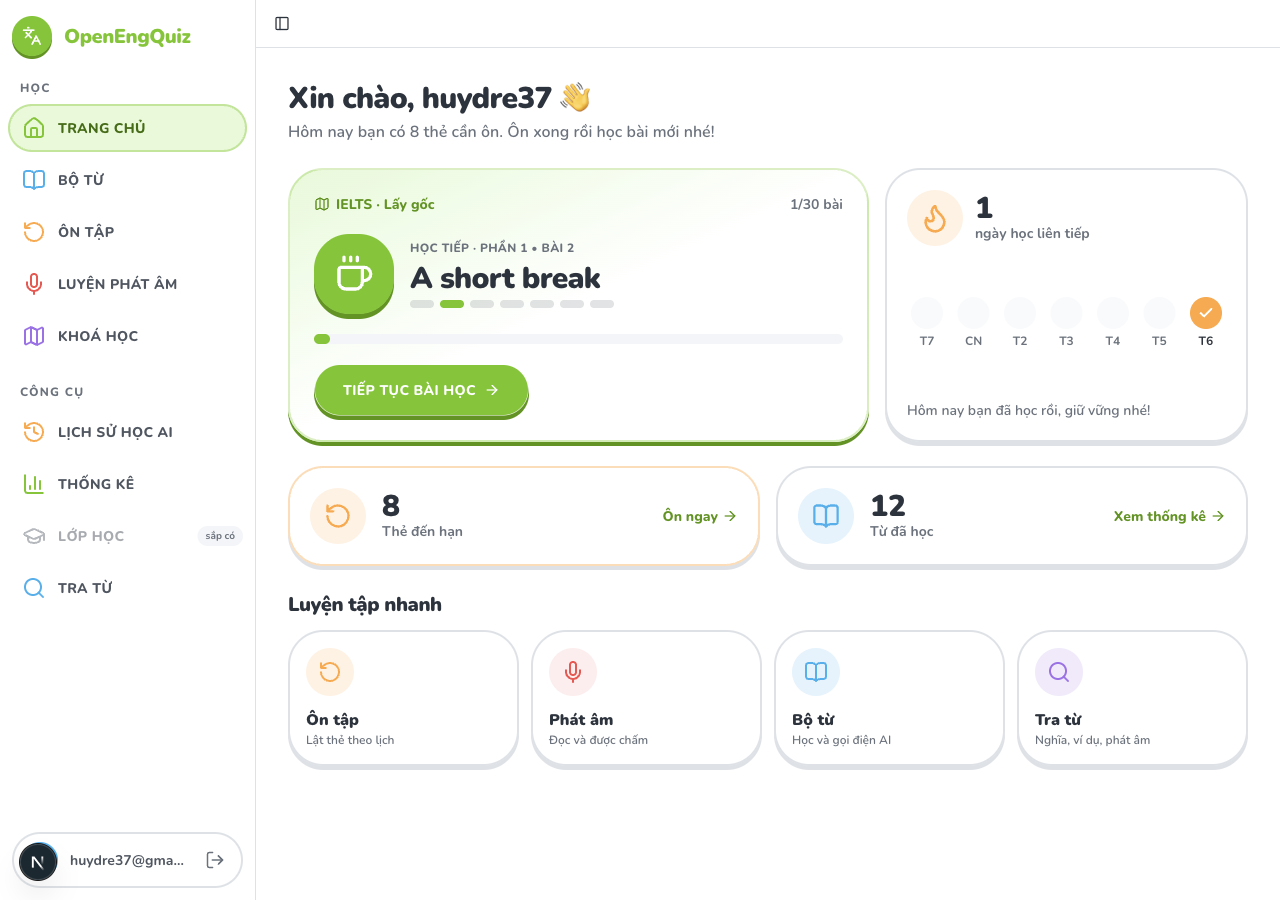
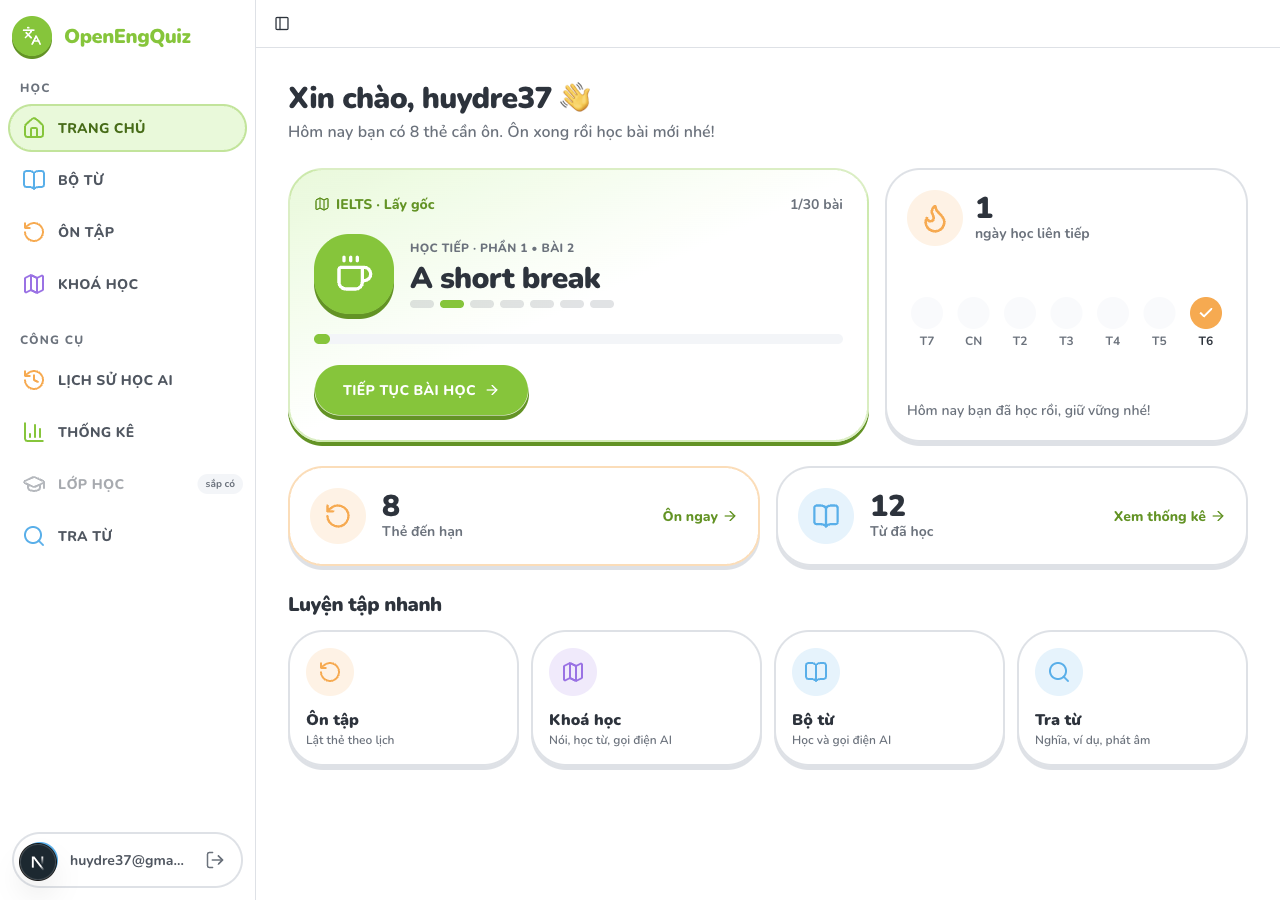
refactor(nav): drop the standalone pronunciation page from the menu; practice lives in lessons

diff --git a/src/app/(app)/home/page.tsx b/src/app/(app)/home/page.tsx
@@ -1,7 +1,7 @@
 import { createElement, Suspense } from "react";
 import Link from "next/link";
 import { redirect } from "next/navigation";
-import { ArrowRight, BookOpen, Check, Flame, GraduationCap, Map as MapIcon, Mic, RotateCcw, Search, Sparkles, type LucideIcon } from "lucide-react";
+import { ArrowRight, BookOpen, Check, Flame, GraduationCap, Map as MapIcon, RotateCcw, Search, Sparkles, type LucideIcon } from "lucide-react";
 import { createClient } from "@/lib/supabase/server";
 import { currentStreak, vietnamDay } from "@/lib/srs/activity";
 import { LogoLoader } from "@/components/layout/logo-loader";
@@ -137,9 +137,9 @@ async function HomeContent() {
         <h2 id="practice-title" className="text-xl font-black">Luyện tập nhanh</h2>
         <div className="grid grid-cols-2 gap-3 md:grid-cols-4">
           <PracticeTile href="/review" icon={RotateCcw} tone="text-brand-orange bg-brand-orange/15" title="Ôn tập" subtitle="Lật thẻ theo lịch" />
-          <PracticeTile href="/pronunciation" icon={Mic} tone="text-destructive bg-destructive/10" title="Phát âm" subtitle="Đọc và được chấm" />
+          <PracticeTile href="/courses" icon={MapIcon} tone="text-brand-grape bg-brand-grape/15" title="Khoá học" subtitle="Nói, học từ, gọi điện AI" />
           <PracticeTile href="/sets" icon={BookOpen} tone="text-secondary bg-secondary/15" title="Bộ từ" subtitle="Học và gọi điện AI" />
-          <PracticeTile href="/lookup" icon={Search} tone="text-brand-grape bg-brand-grape/15" title="Tra từ" subtitle="Nghĩa, ví dụ, phát âm" />
+          <PracticeTile href="/lookup" icon={Search} tone="text-secondary bg-secondary/15" title="Tra từ" subtitle="Nghĩa, ví dụ, phát âm" />
         </div>
       </section>
     </div>

diff --git a/src/components/layout/app-sidebar.tsx b/src/components/layout/app-sidebar.tsx
@@ -3,7 +3,7 @@
 import Link from "next/link";
 import { usePathname } from "next/navigation";
 import {
-  BarChart3, BookOpen, GraduationCap, History, Home, Languages, LogOut, Map, Mic, RotateCcw, Search,
+  BarChart3, BookOpen, GraduationCap, History, Home, Languages, LogOut, Map, RotateCcw, Search,
   type LucideIcon,
 } from "lucide-react";
 import {
@@ -30,7 +30,6 @@ const ICONS: Record<string, { icon: LucideIcon; color: string }> = {
   "/sets": { icon: BookOpen, color: "text-secondary" },
   "/review": { icon: RotateCcw, color: "text-brand-orange" },
   "/courses": { icon: Map, color: "text-brand-grape" },
-  "/pronunciation": { icon: Mic, color: "text-destructive" },
   "/lookup": { icon: Search, color: "text-secondary" },
   "/history": { icon: History, color: "text-brand-orange" },
   "/stats": { icon: BarChart3, color: "text-primary" },
@@ -38,7 +37,7 @@ const ICONS: Record<string, { icon: LucideIcon; color: string }> = {
 };
 
 /** Learning destinations go first; everything else is listed under "Công cụ". */
-const LEARN = new Set(["/home", "/sets", "/review", "/courses", "/pronunciation"]);
+const LEARN = new Set(["/home", "/sets", "/review", "/courses"]);
 
 const ITEM_CLASS = cn(
   "h-12 gap-3 rounded-2xl border-2 border-transparent px-3 text-sm font-extrabold tracking-wide uppercase",

diff --git a/src/app/(app)/speaking/history/page.tsx b/src/app/(app)/speaking/history/page.tsx
@@ -18,8 +18,8 @@ export default function SpeakingHistoryPage() {
     <div className="mx-auto max-w-3xl space-y-6">
       <div className="flex flex-wrap items-center justify-between gap-3">
         <h1 className="text-3xl font-black">Lịch sử luyện nói</h1>
-        <Link href="/pronunciation" className={buttonVariants({ variant: "outline" })}>
-          Luyện phát âm
+        <Link href="/courses" className={buttonVariants({ variant: "outline" })}>
+          Luyện nói trong khoá học
         </Link>
       </div>
       <Suspense fallback={<LogoLoader label="Đang tải lịch sử..." />}>

diff --git a/src/components/layout/nav-items.ts b/src/components/layout/nav-items.ts
@@ -9,7 +9,6 @@ export const NAV_ITEMS: NavItem[] = [
   { href: "/home", label: "Trang chủ" },
   { href: "/sets", label: "Bộ từ" },
   { href: "/review", label: "Ôn tập" },
-  { href: "/pronunciation", label: "Luyện phát âm" },
   { href: "/history", label: "Lịch sử học AI" },
   { href: "/stats", label: "Thống kê" },
   { href: "/courses", label: "Khoá học" },
